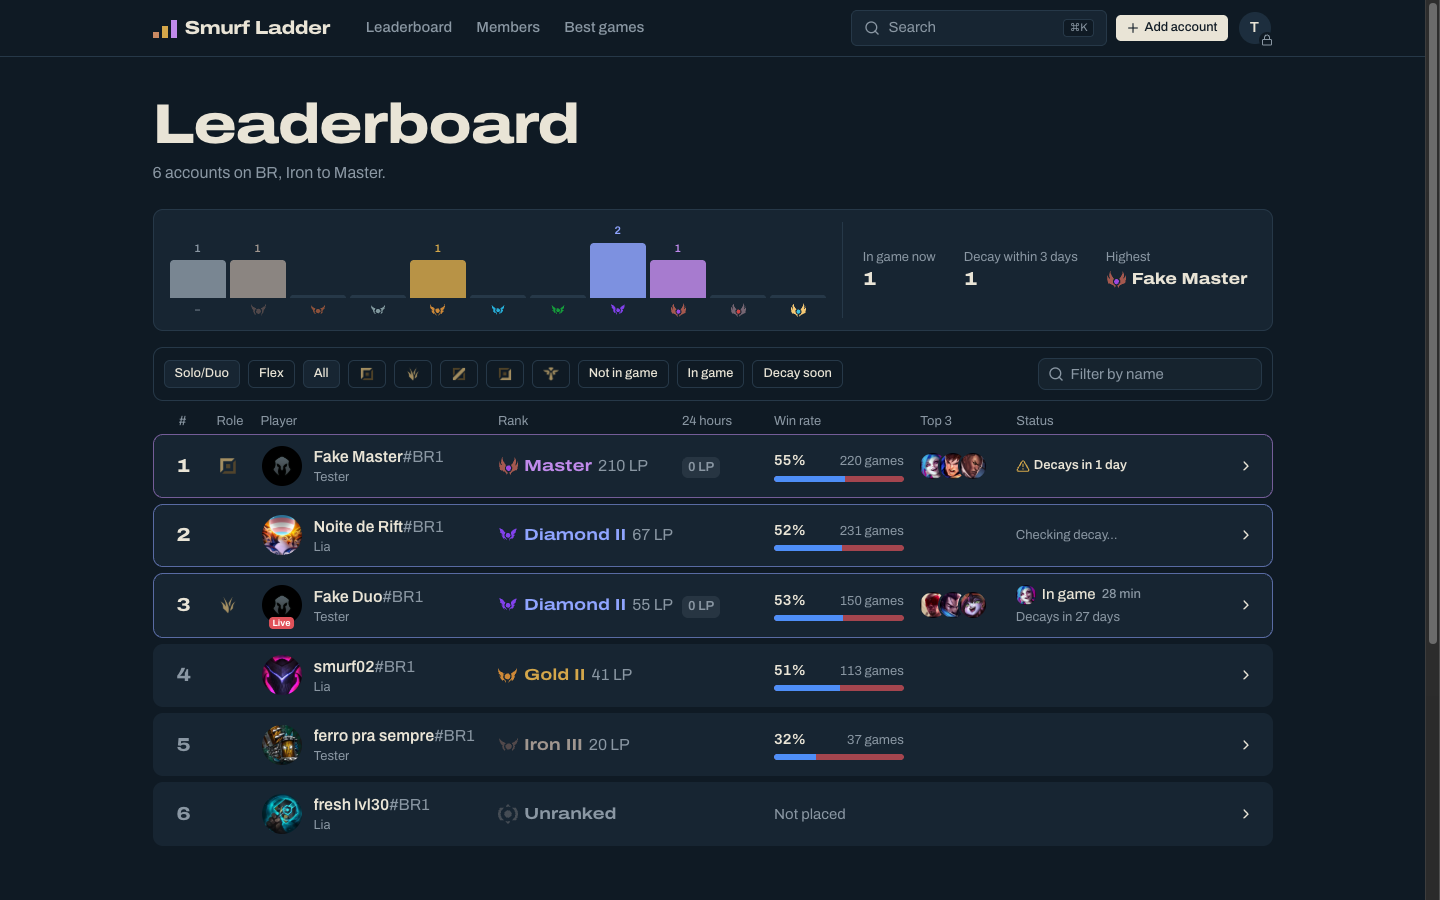
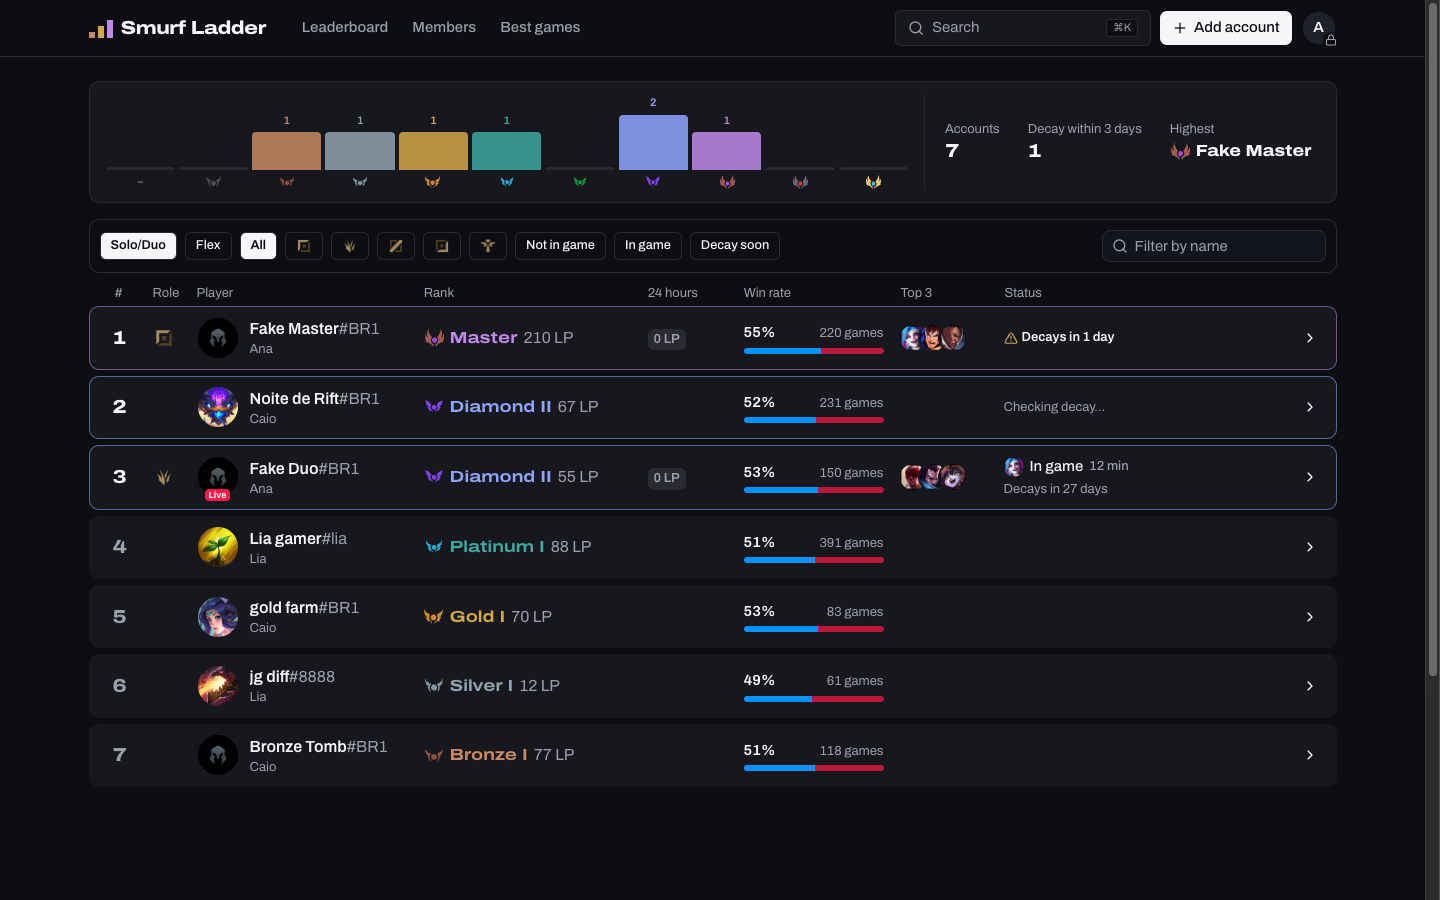
Fix ⌘K search crash; README screenshots of the new UI
- shadcn's CommandDialog rendered cmdk's input and list without a
  <Command> around them ("Cannot read properties of undefined (reading
  'subscribe')"). It now wraps them, and its accessible title moved
  inside the dialog content.
- README: new screenshots of the leaderboard, account page, member page
  and best games, all taken with the fake Riot server's data.

Claude-Session: https://claude.ai/code/session_01AxuiCjx5Np4znLSSSYWKT9

diff --git a/src/components/ui/command.tsx b/src/components/ui/command.tsx
@@ -46,10 +46,6 @@ function CommandDialog({
 }) {
   return (
     <Dialog {...props}>
-      <DialogHeader className="sr-only">
-        <DialogTitle>{title}</DialogTitle>
-        <DialogDescription>{description}</DialogDescription>
-      </DialogHeader>
       <DialogContent
         className={cn(
           "top-1/3 translate-y-0 overflow-hidden rounded-xl! p-0",
@@ -57,7 +53,12 @@ function CommandDialog({
         )}
         showCloseButton={showCloseButton}
       >
-        {children}
+        {/* The title must live inside the dialog content, and cmdk's input/list need a <Command> around them. */}
+        <DialogHeader className="sr-only">
+          <DialogTitle>{title}</DialogTitle>
+          <DialogDescription>{description}</DialogDescription>
+        </DialogHeader>
+        <Command>{children}</Command>
       </DialogContent>
     </Dialog>
   )

diff --git a/README.md b/README.md
@@ -23,6 +23,8 @@ It runs entirely on Cloudflare's free plan (Workers, D1, Cron Triggers) and the 
 
 ![A member page: every account they added, top champions and combined match performance](docs/member.png)
 
+![Best games: the group's highest game scores with MVP and ACE placements](docs/best.png)
+
 ## How the game score works
 
 For each ranked game, every player gets six numbers: KDA (capped at 15), kill participation, share of the team's damage, share of the team's gold, CS per minute and vision per minute. Each is divided by the best value in the lobby, then weighted by role (supports lean on vision, junglers on kill participation). The weighted sums are spread so the lobby's best is 10 and its average is 5. MVP is the top player on the winning team, ACE the top player on the losing team. Remakes get no score. It's our own estimate, not an official Riot number.
